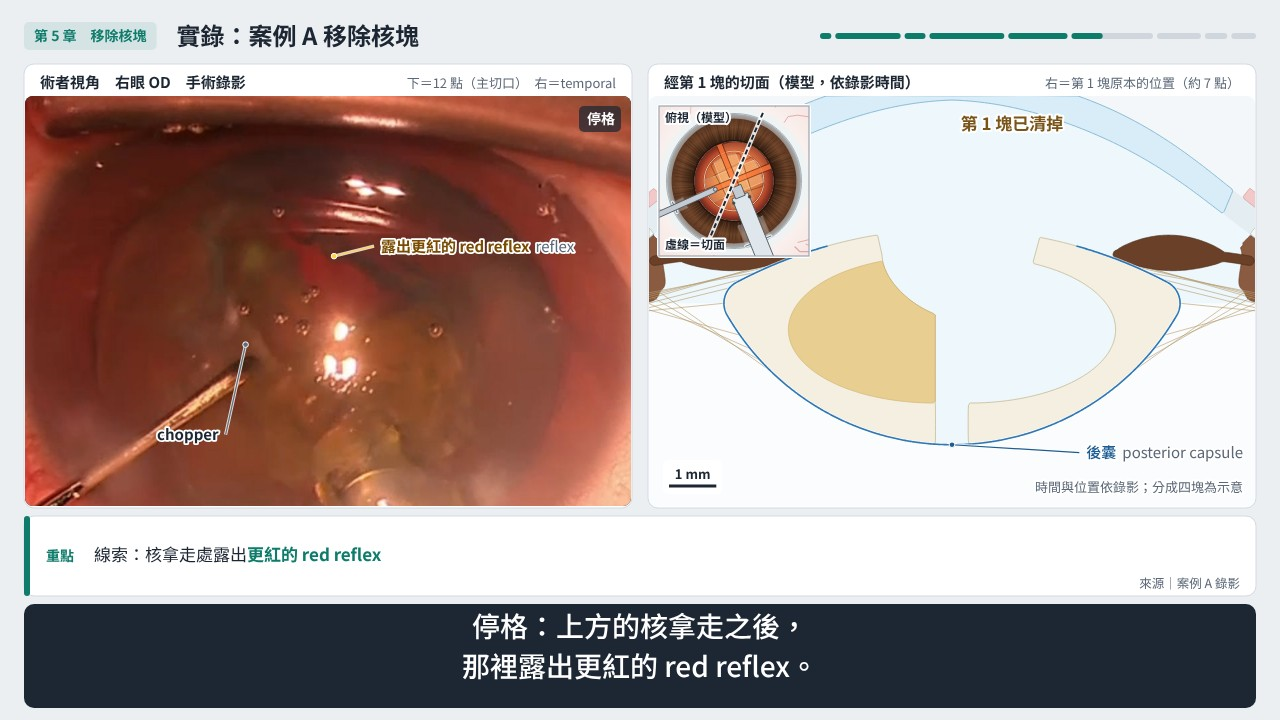
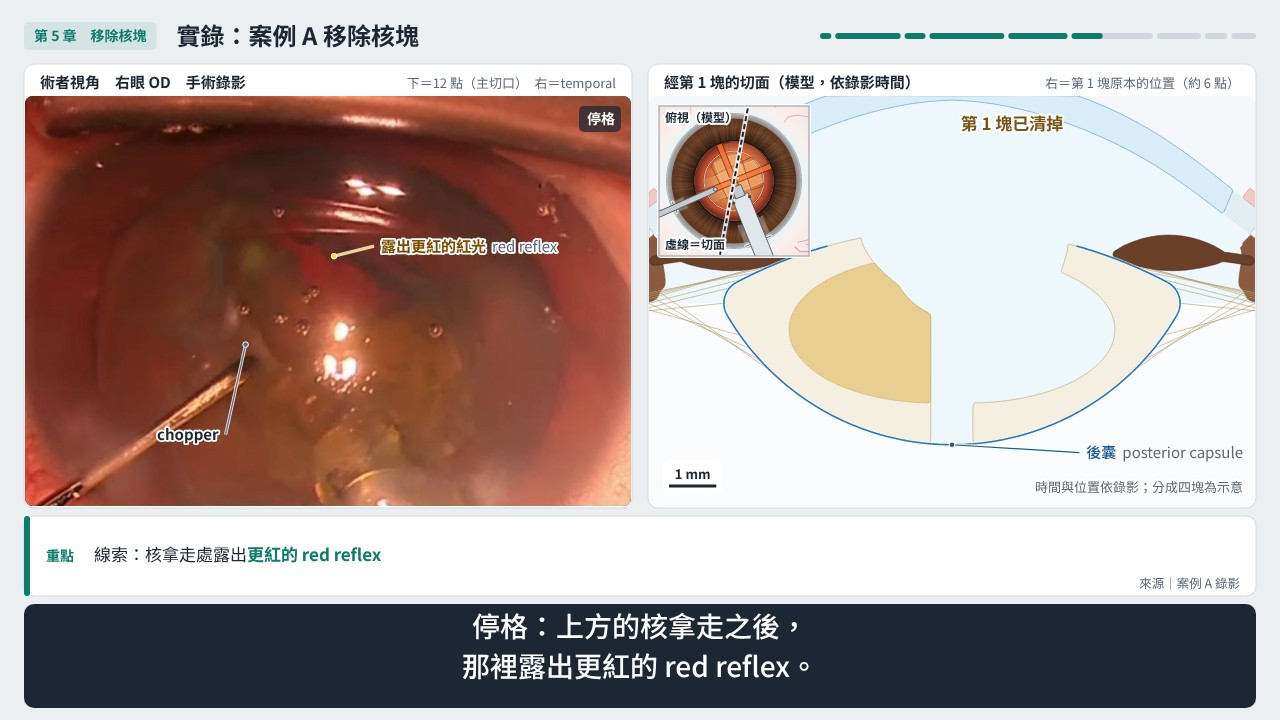
白內障 ②：上傳前修正總覽時發現的五個問題（旁白沒改）
- 5-2 第 5 句：片段在第 2 塊的紅光之後跳過第 3 塊（8:37.5→9:06，畫面註明「略過約 30 秒」），大塊被 chopper 推到中央整句都在畫面上
- 5-2 停格標籤改成「露出更紅的紅光 red reflex」；右邊切面與標題用錄影量到的鐘點（第 1 塊約 6 點）
- 5-1「phaco 口吸住核塊」改指針頭的口，核塊吃完後淡出
- 3-3 第 3 句：6:06 與 6:31（新 clip groove-late）兩格並排，看得到紅溝越來越清楚
- check.js：逐句檢查畫面上的錄影時間＝旁白、跳接只跳過第 3 塊、標題鐘點＝錄影；selftest 加 4 個故意改錯
- 參考圖 Claude 自檢（更新 5-1-L5、5-2-L1，新增 3-3-L2、5-1-L2、5-2-L4）、第 5 章總覽重截；overview-notes、規格書進度、腳本畫面說明

Claude-Session: https://claude.ai/code/session_01UTYneMUKRrc1Hex89Apcyj

diff --git a/videos/src/cataract-2-hydro-dc/check.js b/videos/src/cataract-2-hydro-dc/check.js
@@ -29,13 +29,13 @@ const LEDGER = {
   '2-1': { ...PED, '22': 'Quesada 2022', '11': '結構', '80': '示意', '450': 'Soule 2026' },
   '3-1': { '3': '結構', '12': '結構', '1': '結構' },
   '3-2': { ...PED, '12': '錄影', '6': '錄影', '2': '錄影', '45': '錄影' },
-  '3-3': { '3': '示意', '2': '示意', '1': '示意', '12': '結構', '11': '結構', '6': '錄影', '06': '錄影' },
+  '3-3': { '3': '示意', '2': '示意', '1': '示意', '12': '結構', '11': '結構', '6': '錄影', '06': '錄影', '31': '錄影' },
   '3-4': { '3': '結構', '12': '結構', '1': '結構' },
   '4-1': { '12': '結構', '1': '結構' },
   '4-2': { '20': '錄影', '1.5': '錄影', '12': '結構', '1': '結構' },
   '4-3': { '90': '結構', '12': '結構', '6': '結構', '2': '錄影', '1': '結構' },
   '5-1': { ...PED, '450': 'Soule 2026', '11': '結構', '80': '示意' },
-  '5-2': { '5': '錄影', '2': '錄影', '6': '錄影', '12': '結構', '1': '結構', '3': '結構', '4': '結構', '7': '錄影', '10': '錄影' },
+  '5-2': { '5': '錄影', '2': '錄影', '6': '錄影', '12': '結構', '1': '結構', '3': '結構', '4': '結構', '11': '錄影', '30': '錄影' },
   '5-3': { '450': 'Soule 2026', '1.6': 'Soule 2026', '2.9': 'Soule 2026', '11': '結構', '1': '結構' },
   '5-4': { '4': '錄影', '50': '錄影', '12': '結構' },
   '6-1': { ...PED, '11': '結構' },
@@ -68,9 +68,15 @@ async function screenText() {   // all text drawn on screen per segment (60 % an
         dep: n && n.groove ? n.groove.dep : 0, crack: n && n.crack ? { prog: n.crack.prog, sep: n.crack.sep } : null, rot: n ? n.rot || 0 : 0,
         dep2: n && n.groove2 ? n.groove2.dep : 0, crack2: n && n.crack2 ? n.crack2.prog : 0, quads: n && n.quads ? n.quads.map(q => ({ q: q.q, pull: q.pull, eat: q.eat })) : [] }); }
     return r; });
+  // the footage frames on screen at 10–90 % of every line of the segments whose narration says what the recording shows at that moment
+  // (draw.js records every footage frame it draws in window.FOOT_SEEN; no reuse of an earlier drawing while sampling)
+  const seen = await p.evaluate(ids => { window.KIT_NO_REUSE = true; const r = {};
+    for (const s of TL_EXPORT) { if (!ids.includes(s.id)) continue;
+      r[s.id] = s.lines.map(([a, e]) => [0.1, 0.3, 0.5, 0.7, 0.9].map(f => { window.FOOT_SEEN = []; renderAt(a + (e - a) * f); const z = window.FOOT_SEEN; window.FOOT_SEEN = null; return z; })); }
+    window.KIT_NO_REUSE = false; return { seen: r, skip: window.FOOT_SKIP || {} }; }, ['3-3', '5-2']);
   await b.close();
   if (errs.length) throw new Error('page errors: ' + errs.join(' | '));
-  return { out, sync };
+  return { out, sync, seen };
 }
 
 // ---------------------------------------------------------------- 2. narration ↔ model ↔ footage
@@ -153,6 +159,32 @@ function modelChecks(ctx) {
       if (hrs[n] !== undefined && dH(hrs[n], h) > 1.5) bad.push(`piece ${n}: footage ${hrs[n].toFixed(1)} h, model quadrant at ${h.toFixed(1)} h`); }
     ok(!bad.length && Object.keys(hrs).length === 3 && dH(hrs[1], 6) <= 1 && line(ctx, '5-2', 2).includes('6 點那一側'),
       `pieces: the model takes each out at the footage's piece event, gone by its reflex, inside the measured clock position (${seen.join('; ')})${bad.length ? '; ' + bad.join(', ') : ''}`); }
+  // what the recording shows while the narration says it (footage frames on screen at 10–90 % of each line, sampled on the page). 5-2 plays the
+  // 'quads' clip at 5× with one jump (draw.js Q_SKIP) so that the large piece is on screen while line 4 says it is pushed to the centre:
+  // line 1 「停格」 = the freeze where the reflex label was measured; line 2 (the first piece, from the 6 o'clock side) = after piece 1's reflex,
+  // before piece 2 starts (the caption cannot say 第 2 塊); line 3 (每拿走一塊，紅光就多露出一片) = piece 2 being taken out, up to its reflex (shown
+  // at the end of the line);
+  // line 4 (大塊的核由 chopper 推到中央) = piece 4 (the large piece pushed in by the chopper) up to its reflex. The jump skips only piece 3 (not
+  // readable) and the note on screen gives its length. The right panel's title gives the clock hour read on the footage (pieces 1, 2, 4; piece 1 =
+  // the narration's 6 o'clock). 3-3 line 2 (刻到後面，槽底那條紅色的溝越來越清楚) = the 6:06 freeze next to a frame from the last quarter of the groove.
+  { const fq = D.clips.quads, Lq = i => (ctx.seen['5-2'] || [])[i] || [], sq = i => Lq(i).map(z => z.find(e => e.clip === 'quads')), bad = [];
+    const all = (i, f, what) => { const z = sq(i); if (!z.length || z.some(e => !e || !f(e))) bad.push(`line ${i}: ${what} (shown ${z.map(e => e ? f2(e.s) + (e.frozen ? 'f' : '') : '—').join(' ')})`); };
+    const fr = (fq.freeze || [])[0];
+    all(1, e => e.frozen && fr && e.s === fr.at && fq.points.reflex[0].t === fr.at, 'frozen where the reflex label was measured');
+    all(2, e => e.s >= E['reflex-1'] && e.s < E.piece2, 'after piece 1 is out, before piece 2');
+    all(3, e => e.s >= E.piece2 - 1 && e.s <= E['reflex-2'] + 1, 'piece 2 being taken out (from 1 s of source before it starts)');
+    all(4, e => e.s >= E.piece4 && e.s <= E['reflex-4'], 'the large piece (piece 4) pushed in and eaten');
+    const k = (ctx.skip || {})['5-2'], scr = (ctx.screen['5-2'] || []).join('|'), nm = scr.match(/略過約 (\d+) 秒/);
+    if (k && !(k.from >= E['reflex-2'] && k.from < E.piece3 && k.to > E.piece3 && k.to <= E.piece4)) bad.push(`the jump ${k.from}→${k.to} s is not a jump over piece 3 alone`);
+    if (k && !(nm && Math.abs(+nm[1] - (k.to - k.from)) <= 2.5 && scr.includes('第 3 塊'))) bad.push(`no note giving the jump (${k ? f2(k.to - k.from) : '—'} s): ${nm ? nm[0] : 'none'}`);
+    const hrs = {}; for (const n of [1, 2, 4]) hrs[n] = hourPx(fq.points[`m-piece${n}`][0].p, fq.points[`m-centre${n}`][0].p);
+    const tt = [...scr.matchAll(/第 (\d) 塊原本的位置（約 (\d+) 點）/g)].map(m => [+m[1], +m[2]]);
+    for (const [n, h] of tt) if (hrs[n] !== undefined && dH(h, hrs[n]) > 0.5) bad.push(`title: piece ${n} at ${h} o'clock, footage ${hrs[n].toFixed(1)}`);
+    if (!tt.some(([n, h]) => n === 1 && h === 6) || !line(ctx, '5-2', 2).includes('6 點那一側')) bad.push('title of piece 1 is not 約 6 點 (narration 6 點那一側)');
+    const s3 = ((ctx.seen['3-3'] || [])[2] || []), late = E['sculpt-start'] + 0.75 * (E['sculpt-end'] - E['sculpt-start']);
+    if (!s3.length || s3.some(z => !z.some(e => e.clip === 'groove-a' && e.s <= 366.5) || !z.some(e => e.s >= late && e.s <= E['sculpt-end']))) bad.push(`3-3 line 2: not the 6:06 frame next to one after ${f2(late)} s`);
+    ok(!bad.length && line(ctx, '5-2', 1).startsWith('停格') && line(ctx, '5-2', 4).includes('大塊的核由 chopper 推到中央') && line(ctx, '3-3', 2).includes('越來越清楚'),
+      `footage on screen = narration: 5-2 lines 1–4 (freeze, after piece 1, piece 2, the large piece; one jump over piece 3 with a note), panel titles at the footage's clock hours (${tt.map(([n, h]) => n + ':' + h).join(' ')}), 3-3 line 2 early + late groove${bad.length ? '; ' + bad.slice(0, 4).join('; ') : ''}`); }
   // machine and model numbers said in the narration
   { const d41 = FL.NUM.surgeDur.venturi[0][1], d81 = FL.NUM.surgeDur.peri[1][1];
     ok(FL.NUM.advInf === 22 && line(ctx, '2-1', 4).includes('再加壓') && ctx.text['2-1'].keys.some(k => k[1].includes('22 mmHg')), `Advanced Infusion ${FL.NUM.advInf} mmHg (Quesada 2022; key 22 mmHg)`);
@@ -200,15 +232,16 @@ function ledgerChecks(ctx) {
 const clone = o => JSON.parse(JSON.stringify(o));
 function baseCtx(screen) {
   const text = {}; for (const s of SEGS) text[s.id] = clone(s);
-  return { P: clone(CASE), foot: { sources: FOOT.sources, clips: clone(FOOT.clips) }, text, segs: clone(SEGS), screen: clone(screen), ledger: clone(LEDGER), sync: clone(SYNC) };
+  return { P: clone(CASE), foot: { sources: FOOT.sources, clips: clone(FOOT.clips) }, text, segs: clone(SEGS), screen: clone(screen), ledger: clone(LEDGER), sync: clone(SYNC),
+    seen: clone(SEEN.seen), skip: clone(SEEN.skip) };
 }
-let SYNC = null;
+let SYNC = null, SEEN = null;
 const runAll = ctx => [...ledgerChecks(ctx), ...modelChecks(ctx)];
 (async () => {
-  const { out: screen, sync } = await screenText();
+  const { out: screen, sync, seen } = await screenText();
   if (process.argv.includes('--list')) { for (const s of SEGS) if (!s.chapterCard && s.layout !== 'refs') { const t = [s.title || '', ...(s.lines || []), ...(s.keys || []).map(k => k[1]), ...(screen[s.id] || [])];
     console.log(s.id, [...new Set(t.flatMap(numbers))].join(' '), '|', [...new Set(t.flatMap(x => cites(x).map(c => c.all)))].join(', ')); } return; }
-  SYNC = sync;
+  SYNC = sync; SEEN = seen;
   const res = runAll(baseCtx(screen));
   let fail = 0; const shown = new Set();
   for (const [c, m] of res) { if (!c) fail++; const key = (c ? 'PASS ' : 'FAIL ') + m; if (!c || !/ledger|has a source|is a reference|citation|is cited in a segment/.test(m)) console.log(key); else shown.add(m); }
@@ -233,6 +266,10 @@ const runAll = ctx => [...ledgerChecks(ctx), ...modelChecks(ctx)];
       ['surge duration said 3.9 s', c => { c.text['5-3'].lines[3] = c.text['5-3'].lines[3].replace('2.9', '3.9'); }],
       ['groove not on the incision meridian', c => { c.P.grooveH = 9; }],
       ['piece 1 taken from the temporal quadrant (pieces 1 and 2 swapped)', c => { for (const z of c.sync) for (const q of z.quads) q.q = q.q === 1 ? 2 : q.q === 2 ? 1 : q.q; }],
+      ['5-2 line 4 shows piece 3 again (the large piece a line late, no jump)', c => { for (const z of c.seen['5-2'][4]) for (const e of z) if (e.clip === 'quads') e.s -= 25; }],
+      ['5-2 panel title says piece 1 is at 7 o\'clock', c => { c.screen['5-2'] = c.screen['5-2'].map(t => t.replace('第 1 塊原本的位置（約 6 點）', '第 1 塊原本的位置（約 7 點）')); }],
+      ['3-3 line 2 shows only the 6:06 frame', c => { c.seen['3-3'][2] = c.seen['3-3'][2].map(z => z.filter(e => e.clip !== 'groove-late')); }],
+      ['the jump also skips piece 4\'s start', c => { c.skip['5-2'].to = 552; }],
       ['piece 2 still there when the footage shows its reflex', c => { for (const z of c.sync) if (z.s >= 500 && z.s <= 523) { const q = z.quads.find(e => e.q === 2); if (q) q.eat = Math.min(q.eat, 0.6); } }],
     ];
     let bad = 0;

diff --git a/videos/src/cataract-2-hydro-dc/anim/draw.js b/videos/src/cataract-2-hydro-dc/anim/draw.js
@@ -211,9 +211,19 @@ function caseAt(s) {
   return { cat: c, hy };
 }
 // footage panel + the synced model state; at0 = when the clip starts in the segment
+// for check.js: every footage frame a drawing puts on screen (clip, source time, frozen) — check.js resets window.FOOT_SEEN before each sample
+const seen = (clip, L) => { if (window.FOOT_SEEN) window.FOOT_SEEN.push({ clip, s: L.s, frozen: !!L.frozen }); };
 function footSeg(T, clip, o = {}) {
   const tau = T.u - (o.at0 ?? 0.3), L = FOOTAGE.panel(clip, tau, { badge: o.badge }), st = caseAt(L.s);
+  seen(clip, L);
   return { tau, L, st, s: L.s };
+}
+// a still of a clip seen through a window of the panel (box px): the panel-sized frame shifted so its x = vx sits at the window's left edge;
+// map(p) takes a panel point of the full frame (FOOTAGE.point) into the window
+function footWin(clip, tau, vx, box) {
+  const f = FOOTAGE.panel(clip, tau, { badge: false }); seen(clip, f);
+  return { svg: `<svg x="${box.x}" y="${box.y}" width="${box.w}" height="${box.h}" viewBox="${vx} ${box.y} ${box.w} ${box.h}"><image href="${FOOTAGE.href(clip, f.frame)}" x="0" y="0" width="${PW}" height="${PH}" preserveAspectRatio="none"/></svg>`,
+    map: p => [p[0] - vx + box.x, p[1]], P: f.P, s: f.s };
 }
 const fpt = (clip, name, tau) => FOOTAGE.point(clip, name, tau);
 const frozenOp = (clip, tau, at, d = 0.35) => { const f = (FOOTAGE_DEF.clips[clip].freeze || []).find(z => z.at === at); if (!f) return 0; const a = FOOTAGE.videoTime(clip, at); return ss(a, a + d, tau) * (1 - ss(a + f.dur - d, a + f.dur, tau)); };
@@ -412,8 +422,15 @@ DRAW2['3-3'] = T => {
   const sw = [3, 2, 1].map((r, i) => { const x = 20 + i * 92, gl = K.grooveGlow(r); return `<rect x="${x}" y="${PH - 70}" width="28" height="24" rx="4" fill="#c4542a"/><rect x="${x}" y="${PH - 70}" width="28" height="24" rx="4" fill="#ffc48a" opacity="${(0.15 + 0.8 * gl).toFixed(3)}"/>` + text(x + 34, PH - 52, `${r} mm`, { size: 14, bold: true }); }).join('');
   ex += `<rect x="10" y="${PH - 94}" width="290" height="58" rx="6" fill="#fff" opacity="0.92"/>` + text(20, PH - 78, '剩的厚度與槽底亮度（示意）', { size: 12.5, color: COL.sub }) + sw;
   let Lp = { svg: sv.svg, extra: ex, P: SCOPE_T };
-  if (T.on(2, 0.5) > 0.5 && T.u < T.st(3)) { const tau = FOOTAGE.videoTime('groove-a', 366.0) + 1; Lp = FOOTAGE.panel('groove-a', tau, { badge: false });
-    Lp.extra = labNear('槽底的紅溝', 'red channel', fpt('groove-a', 'groove-floor', tau), 40, -40, { bold: true, color: '#7a4b00', lc: '#ffd34d' }) + wtext(14, PH - 14, '案例 A（錄影 6:06）', { size: 14 }); }
+  // line 2 (「刻到後面，槽底那條紅色的溝越來越清楚」): the same groove early (6:06 freeze) and late (6:31, groove-late) side by side, each half a
+  // window on its frame with the groove at its left and the label right of it
+  if (T.on(2, 0.5) > 0.5 && T.u < T.st(3)) {
+    const tA = FOOTAGE.videoTime('groove-a', 366.0) + 1, tL = FOOTAGE.videoTime('groove-late', 391.5) + 1, HW = (PW - 6) / 2;
+    const A = footWin('groove-a', tA, 230, { x: 0, y: 0, w: HW, h: PH }), B = footWin('groove-late', tL, 160, { x: HW + 6, y: 0, w: HW, h: PH });
+    Lp = { svg: `<rect width="${PW}" height="${PH}" fill="#1d2733"/>` + A.svg + B.svg, P: A.P,
+      extra: wtext(14, 30, '6:06　刻槽前段', { size: 15 }) + wtext(HW + 20, 30, '6:31　刻槽後段', { size: 15 }) +
+        labNear('槽底的紅溝', 'red channel', A.map(fpt('groove-a', 'groove-floor', tA)), 34, 44, { bold: true, color: '#7a4b00', lc: '#ffd34d' }) +
+        labNear('紅溝更長、更清楚', 'clearer', B.map(fpt('groove-late', 'groove-floor', tL)), 34, 44, { bold: true, color: '#7a4b00', lc: '#ffd34d', size: 14 }) }; }
   const xv = xsec(st, 'cR'), X = xv.r.A.grooveX;
   let rx = '';
   if (X) rx += lab(`槽底到後囊 約 ${Math.round(X.rem)} mm`, 'plate', PW - 12, 300, [xv.P(X.floor)[0] + 58, (xv.P(X.floor)[1] + xv.P(X.post)[1]) / 2], { side: 'R', bold: true, color: COL.accent, lc: COL.accent, op: T.on(3) });
@@ -530,7 +547,7 @@ DRAW2['5-1'] = T => {
   const pull = T.p(3, 0.05, 0.6), eat = T.p(3, 0.65, 1) * 0.6 + 0.4 * T.p(4, 0, 1), st = QSTATE(pull, eat);
   const cv = sec(st, W_CAT, 'sL'), B = cv.A;
   let ex = '';
-  if (B.tip0) ex += labNear('phaco 口吸住核塊', 'occlusion', shaftPt(cv, cv.r.A.inst0, 1.6), 30, -60, { bold: true, color: '#3c4a57', op: T.on(1) });
+  if (B.tip0) ex += labNear('phaco 口吸住核塊', 'occlusion', B.tip0, 30, -60, { bold: true, color: '#3c4a57', op: T.on(1) * (1 - ss(0.85, 1, eat)) });   // the needle's mouth (the sleeve's irrigation port is 1.45 mm behind it), until the piece is gone
   if (B.quadApex0) ex += lab('核塊拉到中央', 'quadrant', PW - 30, 244, B.quadApex0, { side: 'R', bold: true, color: NUC, lc: NUC, op: T.on(3) });
   ex += lab('後囊', 'posterior capsule', PW - 12, YB, cv.P([2.4, -(L0.zPost(2.4) - 0.0)]), { side: 'R', color: CAP, lc: CAP });
   ex += lab('皮質留在囊袋', 'cortex', 14, YB, cv.P([-3.8, -(L0.zMid)]), {});
@@ -543,20 +560,34 @@ DRAW2['5-1'] = T => {
   return { L: { svg: cv.svg, extra: ex, P: CAT_T }, R: { svg: `<rect width="${PW}" height="${PH}" fill="#fff"/>` + r, extra: '', P: MACH_T } };
 };
 const PIECE_CAP = ['第 1 塊：從 6 點側', '第 2 塊：從 temporal 側', '第 3 塊：從哪裡來看不清楚', '第 4 塊（大塊）：從 nasal 側偏上'];
+// where each piece was, read on the footage (m-piece<n> against m-centre<n> on the same frame: pieces 1, 2, 4 ≈ 6.4, 10.7, 4.7 o'clock); piece 3
+// is not readable → the model quadrant's centre (示意). The right panel's section and its title use this hour (check.js: title = footage).
+const hourPx = (p, c) => ((12 - Math.atan2(p[0] - c[0], p[1] - c[1]) * 180 / Math.PI / 30) % 12 + 12) % 12;
+const PIECE_H = [1, 2, 3, 4].map(n => { const P = FOOTAGE_DEF.clips.quads.points, a = P[`m-piece${n}`], c = P[`m-centre${n}`]; return a && c ? hourPx(a[0].p, c[0].p) : qHour(CASE.pieceQ[n - 1]); });
+// 5-2 plays 'quads' at 5× with one jump: from just after piece 2's reflex (8:37.5) to the start of piece 4 (9:06), so the large piece is pushed to
+// the centre while line 4 says so (without the jump it came a line late). Skipped: piece 3, not readable where it comes from; a note on the
+// footage says so, and the right panel jumps with the footage. check.js checks what each line shows.
+const Q_SKIP = [517.5, 546.0];
+window.FOOT_SKIP = { '5-2': { clip: 'quads', from: Q_SKIP[0], to: Q_SKIP[1] } };   // for check.js
 DRAW2['5-2'] = T => {
-  const f = footSeg(T, 'quads', { at0: T.st(1) + 0.3 - FOOTAGE.videoTime('quads', 476.0) }), L = f.L, op = frozenOp('quads', f.tau, 476.0), s = f.s;
+  const at0 = T.st(1) + 0.3 - FOOTAGE.videoTime('quads', 476.0), tCut = at0 + FOOTAGE.videoTime('quads', Q_SKIP[0]), jump = (Q_SKIP[1] - Q_SKIP[0]) / FOOTAGE_DEF.clips.quads.rate;
+  const f = footSeg(T, 'quads', { at0: T.u < tCut ? at0 : at0 - jump }), L = f.L, op = frozenOp('quads', f.tau, 476.0), s = f.s;
   let ex = '';
-  if (op > 0) ex += labNear('露出更紅的 red reflex', 'reflex', fpt('quads', 'reflex', f.tau), 40, -10, { bold: true, color: '#7a4b00', lc: '#ffd34d', op }) +
+  if (op > 0) ex += labNear('露出更紅的紅光', 'red reflex', fpt('quads', 'reflex', f.tau), 40, -10, { bold: true, color: '#7a4b00', lc: '#ffd34d', op }) +
     labNear('chopper', '', fpt('quads', 'chopper-tip', f.tau), -20, 90, { bold: true, op });
+  const kJ = T.u >= tCut ? 1 - ss(tCut + 2.6, tCut + 3.0, T.u) : 0;
+  if (kJ > 0) ex += wtext(14, 30, `略過約 ${Math.round((Q_SKIP[1] - Q_SKIP[0]) / 5) * 5} 秒（第 3 塊，看不清楚）`, { size: 14.5, op: kJ });
   // the piece the footage is on (its clock position as read on the footage; draw.js PIECES = the model's piece removals on the same clock)
-  const Q = quadsAt(s), i = Q.cur, P = PIECES[Math.max(0, Q.cur >= 0 ? Q.cur : Q.last)], h = qHour(P.q);
+  const Q = quadsAt(s), i = Q.cur, P = PIECES[Math.max(0, Q.cur >= 0 ? Q.cur : Q.last)], h = PIECE_H[P.n - 1];
   if (i >= 0 && op < 0.5) ex += wtext(14, PH - 14, PIECE_CAP[i], { size: 14.5 });
   L.extra = ex;
-  // right: the section through the piece's original clock position (it moves to the next piece as the footage does), instruments in the inset only
+  // right: the section through the piece's position (it moves to the next piece as the footage does), instruments in the inset only
   const stS = { cat: { ...f.st.cat, inst: [] } }, cv = sec(stS, W_LENS, 'cR', { hp: h }), B = cv.A, cq = f.st.cat.nuc.quads.find(e => e.q === P.q);
   const svg = cv.svg + inset({ cat: f.st.cat }, h, -W_INSET.w / 2, W_INSET.w / 2, BOX_TL, 'iR');
   let rx = '';
-  if (cq && cq.eat < 1 && B['quadApex' + P.q]) rx += labNear(`第 ${P.n} 塊：拉到中央`, '', B['quadApex' + P.q], 40, -80, { bold: true, color: NUC, lc: NUC });
+  // the label fades before the piece is gone: the section runs through the footage's clock hour, up to 0.9 h off the quadrant's centre, and the last
+  // of the shrinking piece (eat > 0.8) lies outside it
+  if (cq && cq.eat < 0.8 && B['quadApex' + P.q]) rx += labNear(`第 ${P.n} 塊：拉到中央`, '', B['quadApex' + P.q], 40, -80, { bold: true, color: NUC, lc: NUC, op: 1 - ss(0.7, 0.8, cq.eat) });
   else if (cq && cq.eat >= 1) rx += tag(`第 ${P.n} 塊已清掉`, 1, NUC, 34, PW / 2 + 60);
   rx += lab('後囊', 'posterior capsule', PW - 12, YB, B.postPole, { side: 'R', color: CAP, lc: CAP });
   rx += VIEWS.sbar(cv.k, 1, 1) + note('時間與位置依錄影；分成四塊為示意', 1);

diff --git a/videos/src/cataract-2-hydro-dc/anim/footage.js b/videos/src/cataract-2-hydro-dc/anim/footage.js
@@ -50,6 +50,16 @@ const FOOTAGE_DEF = {
         { t: 394.0, cx: 455, cy: 380, w: 540 }, { t: 399.0, cx: 480, cy: 440, w: 540 }],
       events: { 'sculpt-end': 398.0 },
     },
+    // 6:30–6:32 late in the groove (still; 3-3 shows it next to the 6:06 freeze): the channel runs from the phaco up to the 6 o'clock rim, redder
+    // between grey walls than at 6:06 (read 2026-11-10 on the panel frames 6:24–6:38 at 0.5 s and gridded at full size). The crop is groove-b's
+    // (same keyframes interpolated), so the picture is the frame 3-2 plays; the clip starts at 390 s for the orientation landmark there.
+    'groove-late': {
+      src: 'case-a', in: 390.0, out: 392.0, rate: 1,
+      freeze: [{ at: 391.5, dur: 6 }],
+      crop: [{ t: 390.0, cx: 458, cy: 340, w: 540 }, { t: 392.0, cx: 457, cy: 360, w: 540 }],
+      events: { 'freeze-late': 391.5 },
+      points: { 'groove-floor': [{ t: 391.5, p: [396, 306] }] },
+    },
     // 6:38.5–6:59 the chopper comes in through the side port (399.3 s); phaco and chopper in the groove push apart; the halves part (417.5 s) (1.5×)
     'crack1': {
       src: 'case-a', in: 398.5, out: 419.0, rate: 1.5,

diff --git a/videos/src/cataract-2-hydro-dc/overview-notes.md b/videos/src/cataract-2-hydro-dc/overview-notes.md
@@ -11,17 +11,20 @@
 | 2 腳踏與面板 | `ref/overview/2-pedal-panel.jpg` | 2-1 第 3 句 90 % | 腳踏 3 段：切面上灌流、抽吸、超音波三種標示；右邊面板（長條，沒有數字，示意） |
 | 3 刻槽 | `ref/overview/3-groove-depth.jpg` | 3-3 第 4 句 90 % | 模型俯視：槽底紅光與「剩的厚度與亮度（示意）」3／2／1 mm；右邊垂直槽的橫切面，槽底到後囊約 1 mm（示意） |
 | 4 分核 | `ref/overview/4-crack.jpg` | 4-2 第 4 句 60 % | 錄影停格：第一道裂縫、chopper、phaco；右邊垂直槽的橫切面（裂縫貫穿後板），右上標「器械姿勢：模型示意（不是這一格）」 |
-| 5 移除核塊 | `ref/overview/5-quadrant-removal.jpg` | 5-1 第 4 句 90 % | 經主切口的切面：phaco 吸住核塊、拉到中央、皮質留在囊袋；右邊面板腳踏 3（示意） |
+| 5 移除核塊 | `ref/overview/5-quadrant-removal.jpg` | 5-1 第 4 句 90 % | 經主切口的切面：phaco 吸住核塊（標籤指針頭的口；2026-11-10 上傳前修正後重截）、拉到中央、皮質留在囊袋；右邊面板腳踏 3（示意） |
 | 6 出錯的線索與第一步 | `ref/overview/6-errors.jpg` | 6-2 第 3 句 90 % | Wound burn：模型俯視切口附近角膜變白（示意）；右邊主切口隧道的橫切面（sleeve、針頭、⊗ 灌流、⊙ 抽吸）＋「第一步：放開 3 段；踩 3 段前先確定有水流」 |
 | 7 練習清單 | `ref/overview/7-checklist.jpg` | 7 第 5 句 95 % | 為什麼先練（Dooley 2006、Suryawanshi 2016）＋wet lab 四件事 |
 | 參考文獻 | `ref/overview/8-references.jpg` | 參考文獻段 8 % | 參考文獻 1–12（往下捲到 17） |
 
-## 上傳前可以再看的（總覽與逐句截圖時發現；不擋出片，`anim/` 沒改）
-- **5-2 第 5 句（約 6:42–6:45）旁白與錄影差一句**：旁白「大塊的核由 chopper 推到中央，phaco 再一口一口吃掉」時，錄影正在第 3 塊（原始 8:38–8:57，左下字幕「第 3 塊：從哪裡來看不清楚」）；大塊（第 4 塊，原始 9:06 起）約 6:47.6 才出現，落在第 6 句「約 2 分鐘」。改法：第 5 句對齊 `piece4`，或把這句移到第 6 句之後。
-- **5-2 第 2 句停格（約 6:28–6:32）標籤**：「露出更紅的 red reflex」後面的英文又是「reflex」，畫面讀成「red reflex reflex」（`draw.js` 5-2 的 `labNear` 英文欄改成空字串即可）。
-- **5-2 右邊面板標題（約 6:22–6:41）**：「右＝第 1 塊原本的位置（約 7 點）」是模型那一塊的中心（6.8 點）；旁白與左下字幕說「6 點那一側」（錄影量到 6.4 點）。可改成「約 6–7 點」或用量到的鐘點。
-- **5-1 第 2–6 句（約 5:51–6:20）標籤**：「phaco 口吸住核塊 occlusion」的定位點在針頭後 1.6 mm（sleeve 的灌流孔，和 2-1「灌流」指的是同一個點），不是針頭的口。
-- **3-3 第 3 句（約 3:38–3:42）**：旁白「錄影裡也看得到：刻到後面，槽底那條紅色的溝越來越清楚」，畫面是 6:06 的單一格（刻槽 5:54–6:38 的前段）。後段（6:30–6:37）的錄影確實看得到更長、更清楚的紅溝（抽格看過），可以改成 6:06 與 6:35 兩格並排，或旁白改成「刻到 6:06，槽底已是一條紅色的溝」。
+## 上傳前可以再看的（總覽與逐句截圖時發現）
+前五項已在 2026-11-10 修好（Claude 小助手，乾淨 worktree；旁白文字與時間軸沒動，沒重新合成語音；每段改過的畫面放大自檢、參考圖更新，`check-all` 全部通過）：
+- ~~**5-2 第 5 句（約 6:42–6:45）旁白與錄影差一句**~~ **已修**：片段照舊 5×、停格照舊，在第 2 塊的紅光之後（原始 8:37.5）跳到第 4 塊開始（9:06），跳過第 3 塊（看不清楚從哪裡來）；左上註明「略過約 30 秒（第 3 塊，看不清楚）」約 3 秒，右邊的模型跟著錄影時間一起跳。現在第 5 句整句是大塊被 chopper 推到中央、phaco 吃掉（原始 9:06–9:24）；第 3 句（第一塊從 6 點那一側）是第 1 塊拿走之後、第 2 塊之前，第 4 句是第 2 塊被拿走、句末露出紅光；片段比段落早約 5.6 秒播完，最後一格停格（標「停格」）到段尾，這時第 7 句講的是右邊。`check.js` 逐句（每句 10–90 % 五個時刻）檢查畫面上的錄影時間＝旁白說的那一刻、跳過的只有第 3 塊、註明的秒數；拿掉跳接實際跑一次 → FAIL（第 5 句變回第 3 塊），再改回。
+- ~~**5-2 第 2 句停格標籤 red reflex reflex**~~ **已修**：改成「露出更紅的紅光 red reflex」（「紅光」和旁白第 4 句、3-3 用的詞相同）。
+- ~~**5-2 右邊面板標題「約 7 點」**~~ **已修**：右邊切面與標題改用錄影量到的鐘點（`m-piece<n>`：第 1、2、4 塊約 6.4、10.7、4.7 點 → 標題「約 6 點」「約 11 點」「約 5 點」；切面也經過這個鐘點，仍在模型那一塊的範圍內）；第 3 塊沒有量測，用模型那一塊的中心（示意，現在不會出現）。切面離模型那一塊的中心最多 0.9 h，核塊吃到最後一點時不在切面上，所以「第 n 塊：拉到中央」在吃到 80 % 時淡出。`check.js` 檢查標題的鐘點＝錄影量到的（±0.5 h），第 1 塊＝旁白的 6 點。
+- ~~**5-1 第 2–6 句「phaco 口吸住核塊」指在 sleeve 灌流孔**~~ **已修**：定位點改到針頭的口（模型的 `tip0`，正好在被吸住的核塊上）；核塊吃完（第 5 句末）這個標籤淡出，第 6 句不再指著空的針頭。
+- ~~**3-3 第 3 句只配 6:06 一格**~~ **已修**：第 3 句改成同一條槽的前後兩格並排：左 6:06（刻槽前段，原本的停格）、右 6:31（刻槽後段，新 clip `groove-late`，原始 6:30–6:32、停在 6:31.5，裁切和 3-2 播的 `groove-b` 相同），各標槽底的紅溝；後段的溝從 phaco 一直到 6 點側的撕囊緣，兩側灰白的槽壁更清楚。`check.js` 檢查這句同時看得到 6:06 與刻槽最後四分之一的一格。
+
+還沒改的（不擋出片）：
 - **4-2 第 4 句停格（約 5:02–5:05）**：模型的器械是交叉的（phaco 推左壁、chopper 從左邊的側切口越過去推右壁），錄影這一格是 chopper 在裂縫 nasal 側、phaco 在 temporal 側（不交叉）。畫面已標「器械姿勢：模型示意（不是這一格）」，住院醫師仍可能以為要交叉；可以在頁尾補一句「兩種推法都可以」或改模型姿勢（需要有出處再改）。
 - 5-4 第 2 句約 7:37.6（原始 10:21，4× 約 0.3 秒）助手的白色棉片掠過角膜，旁白沒提；太短，不改也可以（6-2 講「切口附近角膜變白」，這一閃不是 wound burn）。
 
@@ -74,7 +77,7 @@
 - 刻槽 5:54–6:38（44 秒，旁白「約 45 秒」）；chopper 進眼 6:39.3 → 兩半分開 6:57.5（18 秒，旁白「約 20 秒」）。
 - 第一塊 7:45 → chopper 退出 9:47.7（約 2 分鐘）；phaco 進眼 5:52.5 → 退出 10:40.5（4 分 48 秒，旁白「約 4 分 50 秒」）。
 - 核塊從哪裡拿走（全解析度影格加格線讀紅光的位置；角膜中心用同一格的角膜緣圓擬合，疊圖確認）：第 1 塊 7:45 起，7:54–7:56 6 點側露出紅光（約 6.4 點）；第 2 塊 8:14 起，8:36 前 phaco 旁 temporal 側露出紅光（約 10.7 點）；第 3 塊 8:44 起，看到時已在 phaco 口；第 4 塊（大塊，chopper 推）9:06 起，9:26 左上露出紅光（約 4.7 點）。之後到 9:47 是剩下的碎塊（右上一片）。
-- 播放速度：注水 0.5×／2×、刻槽原速→3×、分核 1.5×、轉核再分 2×、核塊 5×、收尾 4×（`check.js` 檢查旁白說的速度＝片段的速度）。
+- 播放速度：注水 0.5×／2×、刻槽原速→3×、分核 1.5×、轉核再分 2×、核塊 5×、收尾 4×（`check.js` 檢查旁白說的速度＝片段的速度）。核塊那段在 8:37.5 跳到 9:06（跳過第 3 塊，畫面註明），其餘片段都連續。
 
 ## 證據等級（旁白照實說的）
 | 主張 | 出處 | 等級 |

diff --git a/videos/src/cataract-2-hydro-dc/spec.md b/videos/src/cataract-2-hydro-dc/spec.md
@@ -98,3 +98,9 @@
   - `publish/`：`youtube-description.txt`（說明、去識別、流體數字示意、章節、17 篇參考文獻含 DOI［PubMed 逐篇對過 PMID 與 DOI］、製作）、`chapters.txt` 與 `captions.srt`（從 `out/` 複製）、`website-entry-draft.txt`（`yt:'TBD'`、`dur:0` 等 ffprobe；章節秒數照 `chapters.txt`）。
   - 跟刀單 `print/`（LSs 三張：跟刀清單 8 項、手術步驟圖 8 格、關鍵解剖與數字速查）：狀態照 `anim/draw.js` 同名複製；`print.js --gray` 三張 PASS、`--selftest` PASS；彩色與灰階全頁、密的格子放大自檢。列印工具：`print-kit.js` 的 `csec` 加選用的 `off`、`cut`（垂直槽的橫切面）；`numcheck.js` 讀帳本時一併讀 `...PED`、selftest 在沒有「院內常規」數字的影片改用「示意」；README 補；範例 `upper-lid-levator-rotation-brow`、`cataract-1-wound-ccc` 重跑 PASS。
   - `check-all` 全部 PASS（2f61d98 的 worktree，加上這次的檔案；參考圖 0.000%）。
+- 2026-11-10（上傳前修正：總覽時發現的五個問題；Claude 小助手。旁白文字、重點框、來源與時間軸沒動，沒重新合成語音；模型 `globe/` 與 video-kit 沒改；細節在 `overview-notes.md`「上傳前可以再看的」）：
+  - 5-2 第 5 句「大塊的核由 chopper 推到中央」：片段（5×、停格照舊）在第 2 塊的紅光之後跳過第 3 塊（原始 8:37.5–9:06，左上註明「略過約 30 秒」），大塊整句都在畫面上；停格標籤改成「露出更紅的紅光 red reflex」；右邊切面與標題改用錄影量到的鐘點（第 1 塊「約 6 點」，原本「約 7 點」）。
+  - 5-1「phaco 口吸住核塊」改指針頭的口（原本在 sleeve 的灌流孔），核塊吃完後淡出。
+  - 3-3 第 3 句「刻到後面，紅溝越來越清楚」：6:06（前段）與 6:31（後段，新 clip `groove-late`）兩格並排。另一個 checkout 出片前先跑 `node videos/tools/video-kit/footage-cli.js extract videos/src/cataract-2-hydro-dc`（只會抽新的 `groove-late`，61 格）。
+  - `check.js` 加 1 條：5-2 第 2–5 句、3-3 第 3 句畫面上的錄影時間＝旁白說的那一刻（頁面逐句取樣 `FOOT_SEEN`）、跳接只跳過第 3 塊且註明秒數、右邊標題的鐘點＝錄影量到的；selftest 加 4 個故意改錯都抓到，另把跳接真的拿掉跑一次 → FAIL，再改回。
+  - 參考圖：更新 5-1-L5、5-2-L1，新增 3-3-L2、5-1-L2、5-2-L4（Claude 自檢）；總覽 `ref/overview/5-quadrant-removal.jpg` 重截（第 3 章那張的時刻沒變，比對 0 像素差）。`check-all` 全部 PASS。

diff --git a/videos/src/cataract-2-hydro-dc/script-draft.md b/videos/src/cataract-2-hydro-dc/script-draft.md
@@ -158,7 +158,7 @@
 
 ### 3-3　深度怎麼判斷：看紅光
 
-**畫面：** 左：模型術者視角，槽越深槽底越亮；下方三格亮度色票（3、2、1 mm，示意）；第 2 句換成案例 A 6:06 的停格（槽底的紅溝）。右：橫切面，槽底到後囊約 3 → 2 → 1 mm（第 3 句）；第 4 句換成經主切口的切面：近切口是斜坡、最深在對側。
+**畫面：** 左：模型術者視角，槽越深槽底越亮；下方三格亮度色票（3、2、1 mm，示意）；第 2 句換成案例 A 同一條槽的前後兩格並排：6:06 停格（前段）與 6:31（後段，`groove-late`），各標槽底的紅溝（2026-11-10 上傳前修正，原本只有 6:06）。右：橫切面，槽底到後囊約 3 → 2 → 1 mm（第 3 句）；第 4 句換成經主切口的切面：近切口是斜坡、最深在對側。
 
 **旁白（＝字幕）與每句的來源：**
 
@@ -280,7 +280,7 @@
 
 ### 5-2　實錄：案例 A 移除核塊
 
-**畫面：** 左：案例 A 7:32.5–9:48.5（5×），7:56 停格（第 1 句）標露出的 red reflex 與 chopper；左下字幕寫第幾塊從哪一側。右：經目前這一塊的切面＋俯視小圖：四塊在原位拉到中央、乳化，開始與清掉的時間依錄影；第 1、2、4 塊的鐘點對錄影量到的紅光位置，第 3 塊看不清楚（示意）。
+**畫面：** 左：案例 A 7:32.5–9:48.5（5×），7:56 停格（第 1 句）標露出的紅光（red reflex）與 chopper；8:37.5 跳到 9:06（跳過第 3 塊，左上註明「略過約 30 秒」），第 4 句整句是大塊被 chopper 推到中央；左下字幕寫第幾塊從哪一側。右：經目前這一塊的切面＋俯視小圖：四塊在原位拉到中央、乳化，開始與清掉的時間依錄影；切面與標題用錄影量到的鐘點（第 1、2、4 塊約 6、11、5 點），第 3 塊看不清楚（示意）。
 
 **旁白（＝字幕）與每句的來源：**
 
